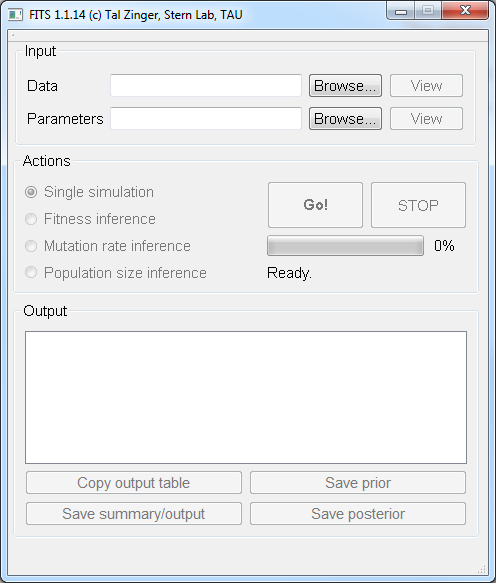
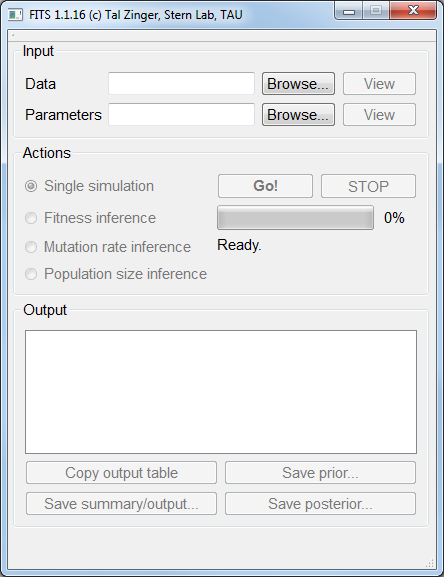
Screen are from 1.1.16

Changed region(s): [[0.0, 0.0, 1.0, 0.9983], [0.0586, 0.1248, 0.9369, 0.2496]]

diff --git a/docs/source/use_cases.rst b/docs/source/use_cases.rst
@@ -5,8 +5,8 @@ Use cases
 
 .. _EnR:
 
-Evolve & Resequence (E&R)
-^^^^^^^^^^^^^^^^^^^^^^^^^
+Fitness inference
+^^^^^^^^^^^^^^^^^
 | In Evolve & Resequence (E&R) studies, a population is grown for a period of time under a given condition and sampled at several time points. 
   The frequencies of genetic variants or phenotypes for the different time points are measured, and we'd like to infer the fitness that is associated with each specific variant (or phenotype).
   An example for such frequency data, sampled for 15 generations and determined for frequency is described here: 
@@ -32,7 +32,7 @@ The inferred fitness value by FITS was practically 1:
     :alt: Fitness 1 inferred
     :figclass: align-center
 	
-    FITS inferred a fitness value of 1.007 for a simulated neutral allele. 
+    FITS inferred a fitness value of 1.004 for a simulated neutral allele. 
 
 
 Mutation rate inference 
@@ -52,22 +52,13 @@ Mutation rate inference
    
 The data file for a simulated neutral alleles (fitness of 1) under these populations sizes and mutation rate is available :download:`here <examples/mutation_rate/data.txt>`. The corresponding parameters file is available :download:`here <examples/mutation_rate/parameters.txt>`.
 
-.. figure:: screens/mutation_rate_0_inferred.png
-    :scale: 68%
-    :align: left
-    :alt: Fitness 1 inferred
-    :figclass: align-center
-        
-    FITS inferred 1 |rarr| 0 mutation rate of 1.02*10\ :sup:`-5`\. 
-        
-
-.. figure:: screens/mutation_rate_1_inferred.png
-    :scale: 68%
-    :align: right
-    :alt: Fitness 1 inferred
+.. figure:: screens/mutation_rate_inferred.png
+    :scale: 80%
+    :align: center
+    :alt: Mutation rate inferred
     :figclass: align-center
 
-    FITS Inferred 0 |rarr| 1 mutation rate of 8.74*10\ :sup:`-6`\. 
+    FITS inferred 0 |rarr| 1 mutation rate of 8.67*10\ :sup:`-6`\, and 1 |rarr| 0 mutation rate of 1.15*10\ :sup:`-5`\. 
 
 
 Population size inference
@@ -85,6 +76,14 @@ Population size inference
    
 | Other parameters such as mutation rates, number of simulations and the sampling rate are similar to the :ref:`EnR` example. 
   The example data file is available :download:`here <examples/pop_size/data.txt>`. The corresponding parameters file is available :download:`here <examples/pop_size/parameters.txt>`.
+
+.. figure:: screens/pop_size_after.png
+    :scale: 80%
+    :align: center
+    :alt: Population size inferred
+    :figclass: align-center
+	
+    FITS inferred a population size of 5.18*10\ :sup:`5`\. 
 
 Trajectory simulations
 ^^^^^^^^^^^^^^^^^^^^^^

diff --git a/docs/source/results.rst b/docs/source/results.rst
@@ -1,3 +1,5 @@
+.. _results:
+
 FITS ouptut
 ===========
 
@@ -42,13 +44,13 @@ ADV(%)				  The proportion of the posterior distribution with values above 1.
 category			  A possible classification of the allele into {LETHAL,DEL,NEU,ADV}, based on the inferred fitness value. 
 ===================== ================================ 
 
-.. note :: Some fitness priors rarely choose the exact value of 1 and therefore **NEU(%)** will approach zero, even for neutral alleles. 
+.. note :: Some `fitness priors <_static/priors.png>`_ rarely choose the exact value of 1 and therefore **NEU(%)** will approach zero, even for neutral alleles. 
 
 Mutation rate inference results
 ^^^^^^^^^^^^^^^^^^^^^^^^^^^^^^^
 FITS infers the mutation rates between all defined alleles. Accordingly, the output table contains the target allele in the first row and the source allele in the first column.
 
-.. note :: In E&R studies, when the population is homogeneous at first generation, 
+.. note :: In Evolve & Resequence (E&R) studies, when the population is homogeneous at first generation, 
            in the absence of more information the inference of the rates between the minor allele to the major will be insignificant, so the **pval** should be taken into account.   
 
 Population size inference results

diff --git a/docs/source/install.rst b/docs/source/install.rst
@@ -11,9 +11,9 @@ Compiling the command line interface
 
 #. Download and extract the `Boost library 1.69 <https://www.boost.org/users/history/version_1_69_0.html>`_ to a convenient location.
 
-#. Compile all \*.cpp files, referring the compiler to the Boost libraries, e.g.: ``g++ -std=c++11 -O3 -o fits1.1.14 -I/path/to/boost/ -L/path/to/boost/libs *.cpp`` 
+#. Compile all \*.cpp files, referring the compiler to the Boost libraries, e.g.: ``g++ -std=c++11 -O3 -o fits1.1.16 -I/path/to/boost/ -L/path/to/boost/libs *.cpp`` 
 
-   (here we tell gcc to use c++11 standard, use optimization (-O3) and name the output file (-o) **fits1.1.14**).
+   (here we tell gcc to use c++11 standard, use optimization (-O3) and name the output file (-o) **fits1.1.16**).
 
 #. Run FITS with no command line arguments to get the help text
 

diff --git a/docs/source/GUI.rst b/docs/source/GUI.rst
@@ -27,7 +27,7 @@ Press ``Go!`` to perform the selected action. FITS will show a progress bar and 
 
 The inference results are given in the ``Output`` area. It may be copied to the clipboard (for example, to be pasted into a spreadsheet). Inference output, prior and posterior distributions may be exported to text files. 
 
-.. figure:: screens/inference_made.png
+.. figure:: screens/fitness_1_inferred.png
     :scale: 80%
     :align: center
     :alt: FITS main screen
@@ -35,4 +35,4 @@ The inference results are given in the ``Output`` area. It may be copied to the 
     
     FITS after making an inference. 
 	
-The inference results are explained in the :ref:`introduction` page. 
+The inference results are explained in the :ref:`results` page. 
